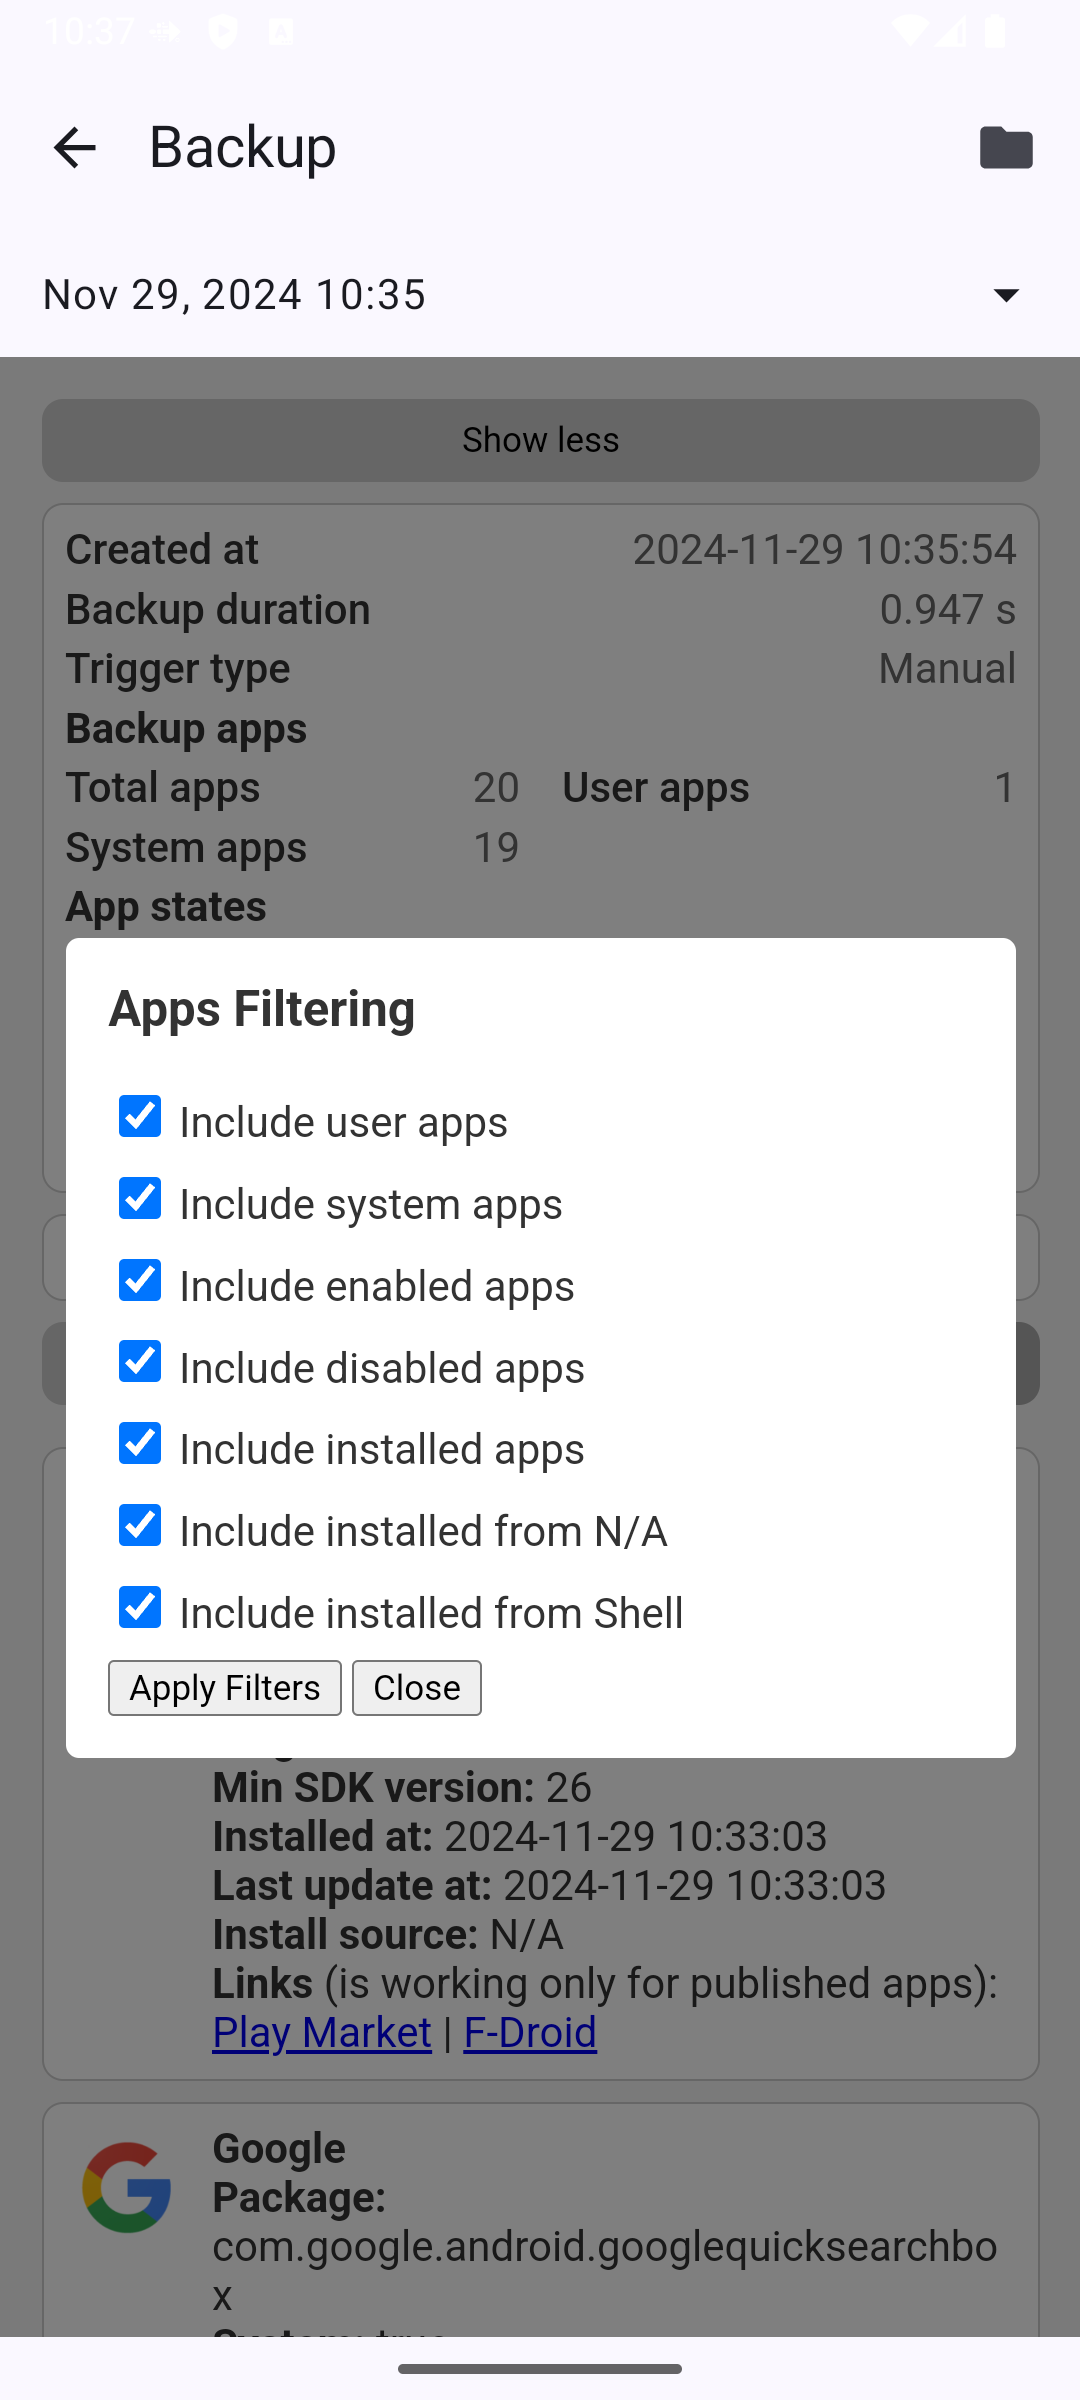
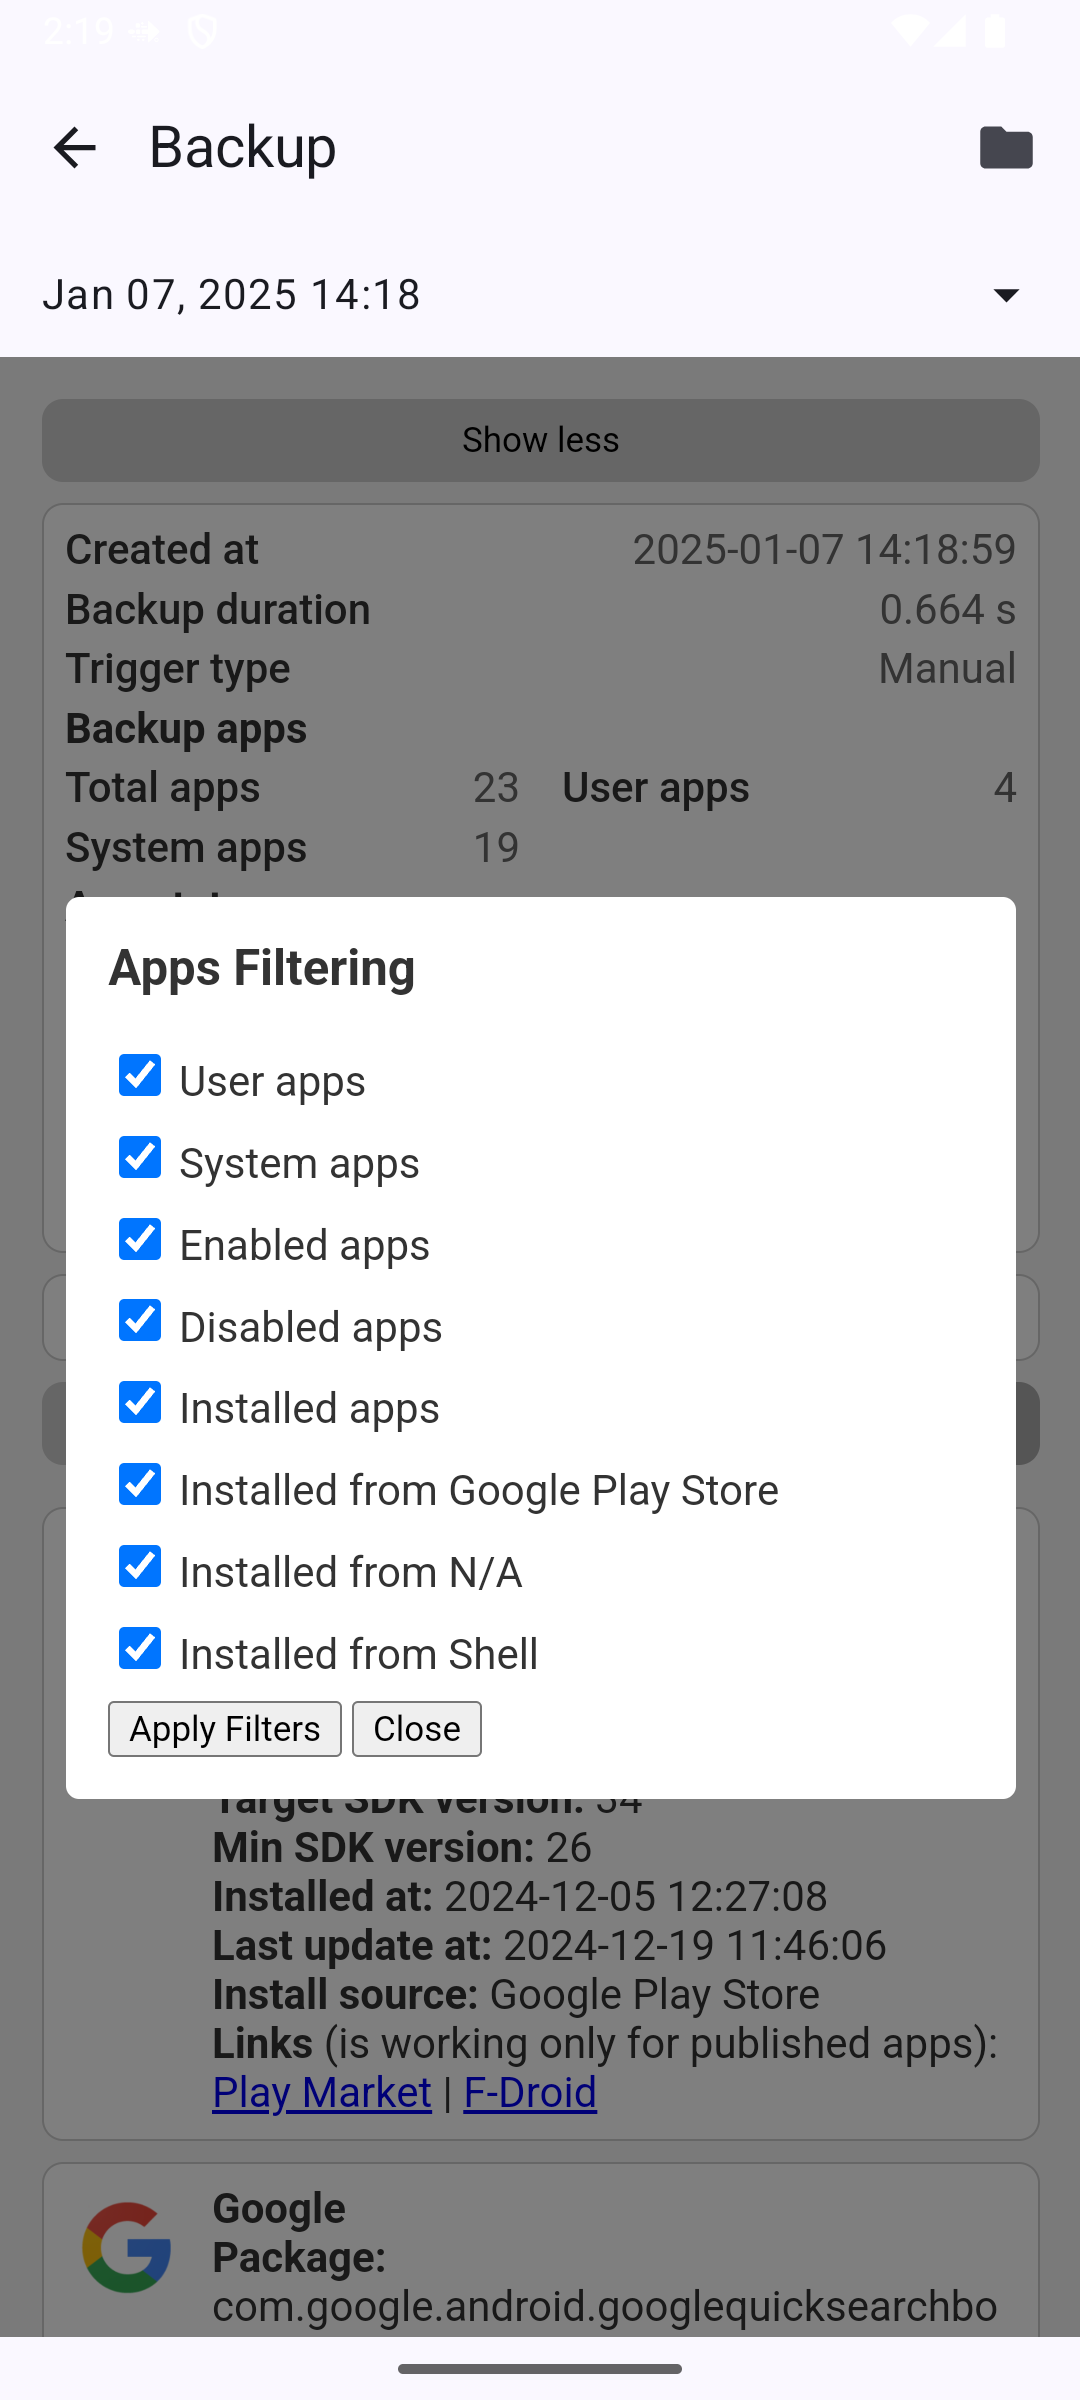
feat: remove "include" word from filters

diff --git a/app/src/main/java/org/androidlabs/applistbackup/BackupService.kt b/app/src/main/java/org/androidlabs/applistbackup/BackupService.kt
@@ -307,7 +307,7 @@ class BackupService : Service() {
                     installerFilterItems.append(
                         """
                         <label>
-                            <input type="checkbox" id="$filterId" checked> ${getString(R.string.include_installed_from)} $installer
+                            <input type="checkbox" id="$filterId" checked> ${getString(R.string.installed_from)} $installer
                         </label>
                         """.trimIndent()
                     )
@@ -370,11 +370,11 @@ class BackupService : Service() {
                     "LOCALISATION_ORDER_DESCENDING" to getString(R.string.order_descending),
                     "LOCALISATION_CLOSE_BUTTON" to getString(R.string.close),
                     "LOCALISATION_APPS_FILTERING" to getString(R.string.apps_filtering),
-                    "LOCALISATION_INCLUDE_USER_APPS" to getString(R.string.include_user_apps),
-                    "LOCALISATION_INCLUDE_SYSTEM_APPS" to getString(R.string.include_system_apps),
-                    "LOCALISATION_INCLUDE_ENABLED_APPS" to getString(R.string.include_enabled_apps),
-                    "LOCALISATION_INCLUDE_DISABLED_APPS" to getString(R.string.include_disabled_apps),
-                    "LOCALISATION_INCLUDE_INSTALLED_APPS" to getString(R.string.include_installed_apps),
+                    "LOCALISATION_USER_APPS" to getString(R.string.user_apps),
+                    "LOCALISATION_SYSTEM_APPS" to getString(R.string.system_apps),
+                    "LOCALISATION_ENABLED_APPS" to getString(R.string.enabled_apps),
+                    "LOCALISATION_DISABLED_APPS" to getString(R.string.disabled_apps),
+                    "LOCALISATION_INSTALLED_APPS" to getString(R.string.installed_apps),
                     "LOCALISATION_APPLY_FILTERS_BUTTON" to getString(R.string.apply_filters_button),
                     "LOCALISATION_BACKUP_DURATION" to getString(R.string.backup_duration),
                     "LOCALISATION_SORT_BY_INSTALLER" to getString(R.string.sort_by_installer_name),

diff --git a/app/src/main/assets/template.html b/app/src/main/assets/template.html
@@ -297,19 +297,19 @@
     <div class="modal-content">
       <h3><!-- LOCALISATION_APPS_FILTERING --></h3>
       <label>
-        <input type="checkbox" id="filter-user-apps" checked> <!-- LOCALISATION_INCLUDE_USER_APPS -->
+        <input type="checkbox" id="filter-user-apps" checked> <!-- LOCALISATION_USER_APPS -->
       </label>
       <label>
-        <input type="checkbox" id="filter-system-apps" checked> <!-- LOCALISATION_INCLUDE_SYSTEM_APPS -->
+        <input type="checkbox" id="filter-system-apps" checked> <!-- LOCALISATION_SYSTEM_APPS -->
       </label>
       <label>
-        <input type="checkbox" id="filter-enabled-apps" checked> <!-- LOCALISATION_INCLUDE_ENABLED_APPS -->
+        <input type="checkbox" id="filter-enabled-apps" checked> <!-- LOCALISATION_ENABLED_APPS -->
       </label>
       <label>
-        <input type="checkbox" id="filter-disabled-apps" checked> <!-- LOCALISATION_INCLUDE_DISABLED_APPS -->
+        <input type="checkbox" id="filter-disabled-apps" checked> <!-- LOCALISATION_DISABLED_APPS -->
       </label>
       <label style="display: none;">
-        <input type="checkbox" id="filter-installed-apps" checked> <!-- LOCALISATION_INCLUDE_INSTALLED_APPS -->
+        <input type="checkbox" id="filter-installed-apps" checked> <!-- LOCALISATION_INSTALLED_APPS -->
       </label>
       <!-- INSTALLERS_FILTERS -->
       <button onclick="applyFilters()"><!-- LOCALISATION_APPLY_FILTERS_BUTTON --></button>
